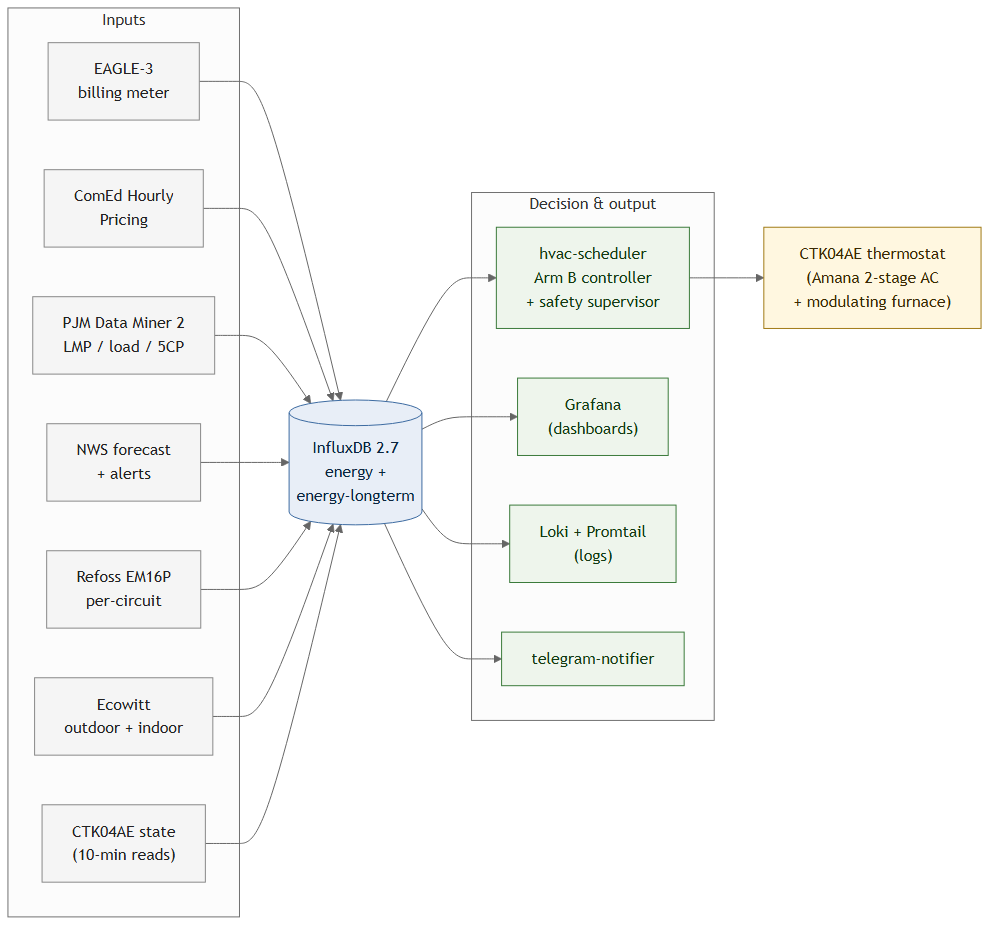
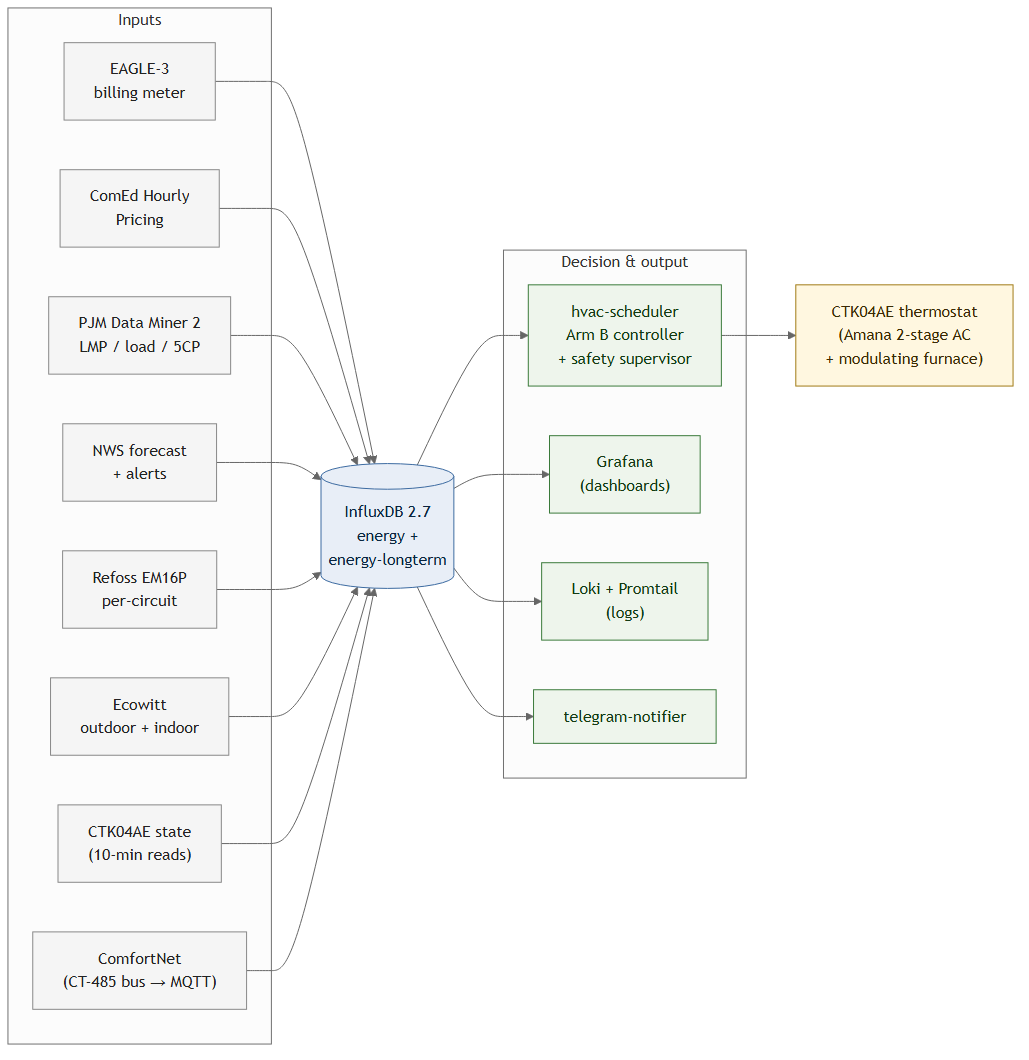
docs(diagram): add ComfortNet to README architecture diagram
ComfortNet (CT-485 bus → MQTT → Telegraf → hvac.comfortnet) is a
continuous-flow input to InfluxDB but was omitted from the
architecture diagram landed in #58. Adding now keeps the diagram
honest about the live data sources feeding the experiment.

Periodic-ingest sources (ComEd bill PDFs, PJM 5CP annual scrape) stay
omitted from this diagram by design — they're reconciliation / label
sources, not architectural live-flow inputs. They remain documented
in SERVICES.md and PROJECT.md.

- docs/diagrams/architecture.mmd: add CN node + edge to DB
- docs/diagrams/architecture.png / .svg: re-rendered with same
  neutral theme + 1600x1400 PNG geometry
- README.md: update image alt-text to include ComfortNet

diff --git a/README.md b/README.md
@@ -50,7 +50,7 @@ OSF filing. The binding spec is the source of truth.
 
 ## Architecture
 
-![Architecture: inputs (EAGLE-3, ComEd Hourly Pricing, PJM Data Miner 2, NWS, Refoss EM16P, Ecowitt, CTK04AE state) flow into InfluxDB 2.7, which feeds the hvac-scheduler Arm B controller (with safety supervisor), Grafana dashboards, Loki + Promtail logs, and the telegram-notifier; the scheduler pushes setpoints to the CTK04AE thermostat driving a 2-stage Amana AC and modulating furnace.](docs/diagrams/architecture.png)
+![Architecture: inputs (EAGLE-3, ComEd Hourly Pricing, PJM Data Miner 2, NWS, Refoss EM16P, Ecowitt, CTK04AE state, ComfortNet CT-485 bus via MQTT) flow into InfluxDB 2.7, which feeds the hvac-scheduler Arm B controller (with safety supervisor), Grafana dashboards, Loki + Promtail logs, and the telegram-notifier; the scheduler pushes setpoints to the CTK04AE thermostat driving a 2-stage Amana AC and modulating furnace.](docs/diagrams/architecture.png)
 
 > Diagram source: [`docs/diagrams/architecture.mmd`](docs/diagrams/architecture.mmd) (Mermaid).
 > Re-render with `npx -y @mermaid-js/mermaid-cli -i docs/diagrams/architecture.mmd -o docs/diagrams/architecture.png -t neutral -b white -w 1600 -H 1400` (SVG is also committed at the same path).
